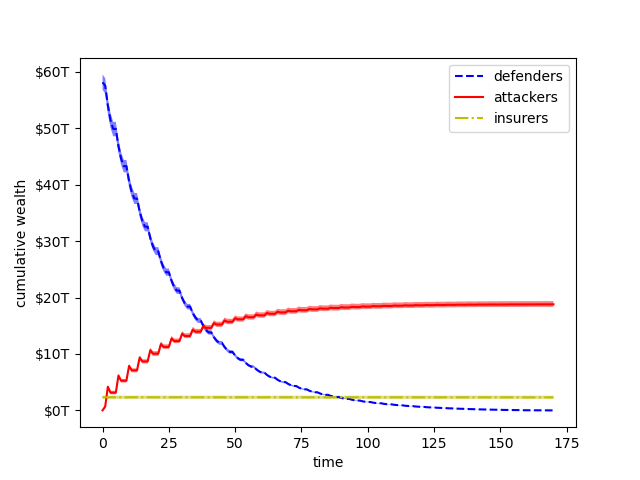
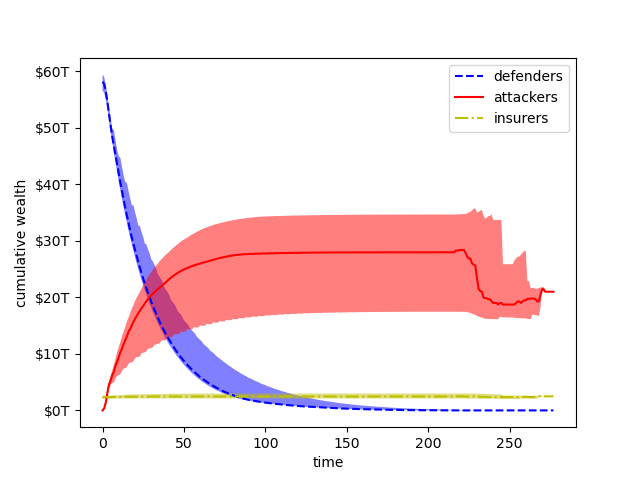
simplification. Current results look very nice! debugger shows a range of choices from defenders btw

diff --git a/cpp-games/scripts/plot_verbose.py b/cpp-games/scripts/plot_verbose.py
@@ -20,7 +20,9 @@ def plot_verbose(df):
     fig, ax = plt.subplots()
 
 
-    for frame, label, c, l in zip(['d_cumulative_assets', 'a_cumulative_assets', 'i_cumulative_assets'], ['defenders', 'attackers', 'insurers'], ['b', 'r', 'y'], ['--', '-', '-.']):
+    for label, c, l in zip(['defenders', 'attackers', 'insurers'], ['b', 'r', 'y'], ['--', '-', '-.']):
+
+        frame = label[0] + "_cumulative_assets"
 
         cumulative_assets_5th_pct = []
         cumulative_assets_median = []
